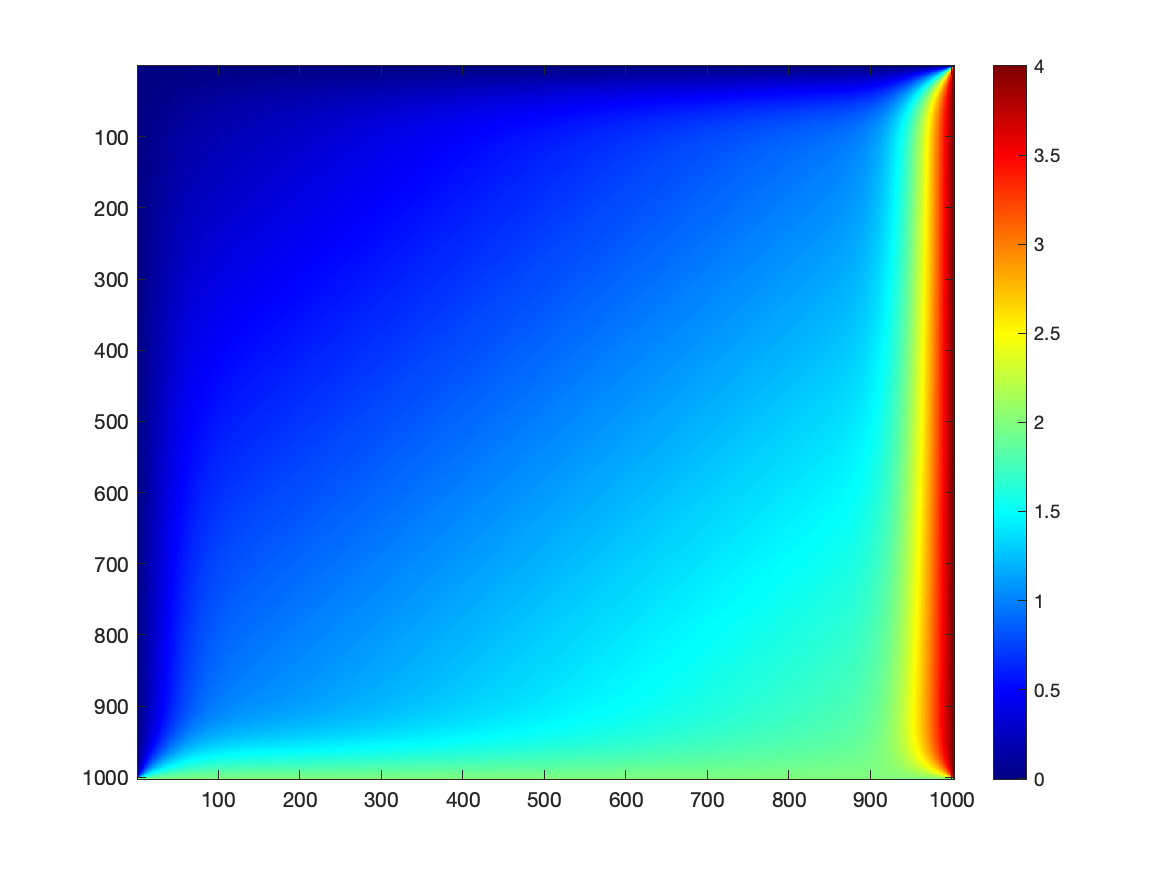
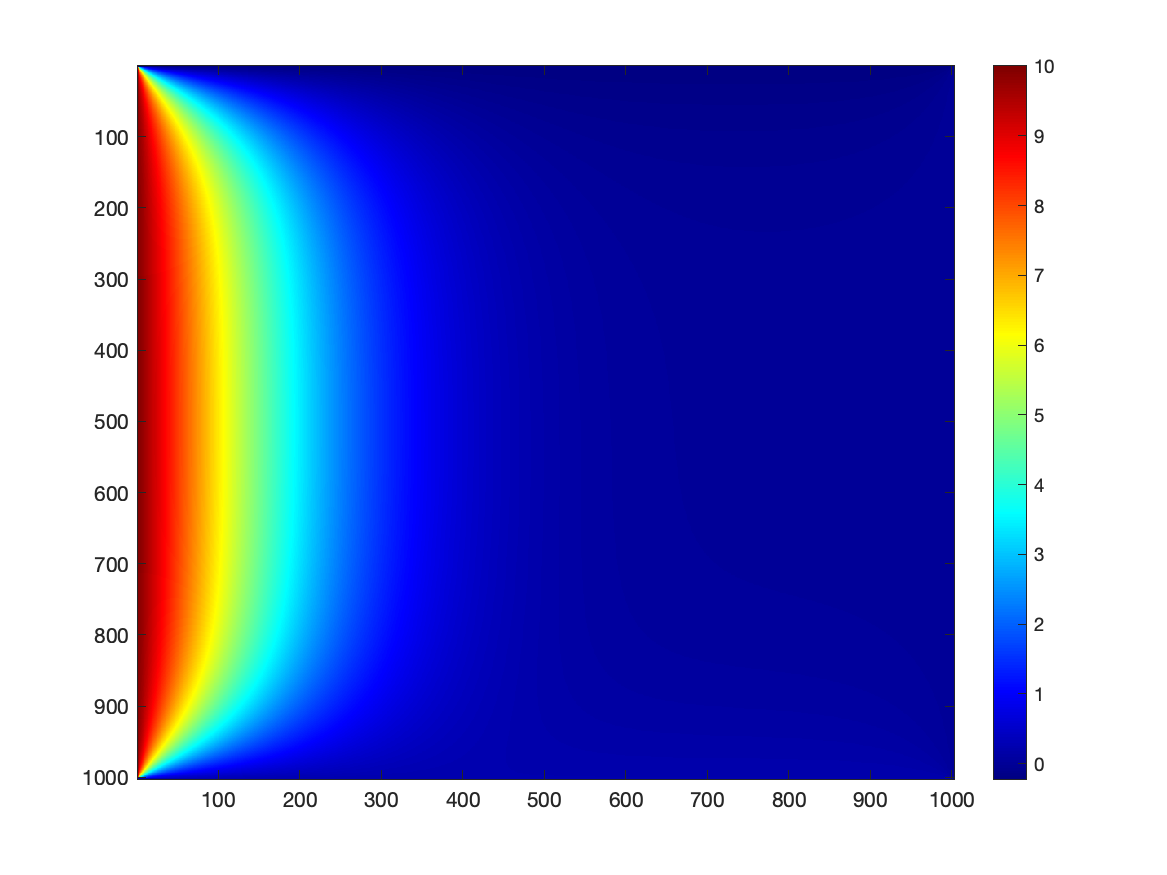
Update.Tests

diff --git a/Hybrid.Heat/ver1.0/include/pde/detials/BoundaryConditions/BoundaryConditions.hpp b/Hybrid.Heat/ver1.0/include/pde/detials/BoundaryConditions/BoundaryConditions.hpp
@@ -13,24 +13,33 @@ namespace final_project { namespace pde {
 template <typename T>
   class BoundaryConditions_2D
   {
+    using BCFunction = std::function<T(T, T, T)>;
+
     public:
     BoundaryConditions_2D();
     BoundaryConditions_2D(Bool, Bool, Bool, Bool);
 
     void SetBC(Heat_2D<T> &, T, T, T, T);
+    void SetBC(Heat_2D<T> &, BCFunction, BCFunction, BCFunction, BCFunction);
 
     private:
-    Integer h {1};
     Bool isSetUpBC;
     std::array<Bool, 4> isDirichletBC;
     std::array<Bool, 4> isNeumann;
     std::array<T, 4>    BCValue;
+    std::array<BCFunction, 4> BCFunc; 
 
     void SetBCinDim00(Heat_2D<T> &, T &);
     void SetBCinDim01(Heat_2D<T> &, T &);
     void SetBCinDim10(Heat_2D<T> &, T &);
     void SetBCinDim11(Heat_2D<T> &, T &);
 
+    void SetBCinDim00(Heat_2D<T> &, BCFunction &);
+    void SetBCinDim01(Heat_2D<T> &, BCFunction &);
+    void SetBCinDim10(Heat_2D<T> &, BCFunction &);
+    void SetBCinDim11(Heat_2D<T> &, BCFunction &);
+
+    
     void UpdateBC(Heat_2D<T> &);
 
     friend Heat_2D<T>;
@@ -61,8 +70,8 @@ template <typename T>
 template <typename T>
   inline
   BoundaryConditions_2D<T>::BoundaryConditions_2D(
-    Bool isDirichDim00, Bool isDirichDim01,   // is Dirichlet in Dimension 0
-    Bool isDirichDim10, Bool isDirichDim11)   // is Dirichlet in Dimension 1
+    Bool isDirichDim00, Bool isDirichDim01,   // is Dirichlet in Dimension 0, as Constant Value 
+    Bool isDirichDim10, Bool isDirichDim11)   // is Dirichlet in Dimension 1, as Constant Value 
   {
     isDirichletBC = {isDirichDim00, isDirichDim01, isDirichDim10, isDirichDim11};
     for (Integer i = 0; i < 4; ++i)
@@ -73,11 +82,34 @@ template <typename T>
 
 
 template <typename T>
-  inline 
-  void 
+  inline void 
+  BoundaryConditions_2D<T>::SetBC(Heat_2D<T> & obj, 
+    BCFunction Funcdim00, BCFunction Funcdim01,   // is Neumann in Dimension 0, as Function g(x,y,t)
+    BCFunction Funcdim10, BCFunction Funcdim11)   // is Neumann in Dimension 1, as Function g(x,y,t)
+  {
+
+    BCFunc = {Funcdim00, Funcdim01, Funcdim10, Funcdim11};
+
+    SetBCinDim00(obj, BCFunc[0]);
+    // SetBCinDim01(obj, BCFunc[1]);
+    // SetBCinDim10(obj, BCFunc[2]);
+    // SetBCinDim11(obj, BCFunc[3]);
+
+    isSetUpBC = true;
+
+    #ifndef NDEBUG
+    std::cout << "Boundary Conditions are setup (rank " << obj.in.topology().rank << "): " 
+              << " as function."
+              << std::endl;
+    #endif
+  } 
+
+
+template <typename T>
+  inline void 
   BoundaryConditions_2D<T>::SetBC(Heat_2D<T> &obj, 
-    T Vdim00, T Vdim01, 
-    T Vdim10, T Vdim11)
+    T Vdim00, T Vdim01,   // in Dimension 0, as Constant, value or derivative
+    T Vdim10, T Vdim11)   // in Dimension 1, as Constant, value or derivative
   {
     BCValue = {Vdim00, Vdim01, Vdim10, Vdim11};
 
@@ -88,10 +120,12 @@ template <typename T>
 
     isSetUpBC = true;
 
-    #ifndef NDEBUG
-    std::cout << "Boundary Conditions are setup (rank " << obj.in.topology().rank << "): " 
-              << std::endl;
-    #endif
+  #ifndef NDEBUG
+  std::cout << "Boundary Conditions are setup" 
+            << " (rank " << obj.in.topology().rank << "): " 
+            << " as constant value."
+            << std::endl;
+  #endif
   }
 
 template <typename T>
@@ -107,8 +141,7 @@ template <typename T>
   }
 
 template <typename T>
-  inline
-  void
+  inline void
   BoundaryConditions_2D<T>::SetBCinDim00(Heat_2D<T> & obj, T & Value)
   {
     auto shape_cpy  { obj.in.topology().__local_shape};
@@ -132,13 +165,10 @@ template <typename T>
         }
       }
     }
-
-
   }
 
 template <typename T>
-  inline 
-  void 
+  inline void 
   BoundaryConditions_2D<T>::SetBCinDim01(Heat_2D<T> & obj, T & Value)
   {
     auto shape_cpy  { obj.in.topology().__local_shape};
@@ -221,6 +251,53 @@ template <typename T>
       }
     }
   }
+  
+//////////////////////////////////////////////////////////////////////////////////////////
+// Requires Time (iteration).
+template <typename T>
+  inline void
+  BoundaryConditions_2D<T>::SetBCinDim00(Heat_2D<T> & obj, BCFunction & func)
+  {
+    auto shape_cpy  { obj.in.topology().__local_shape};
+    auto starts_cpy {obj.in.topology().starts};
+
+    // T value {isDirichletBC[0] ? BCValue[0] : 0};
+
+
+    // T x {0}, y {0};
+    // if (starts_cpy[0] == 1)
+    // {
+    //   size_type i = 0;
+    //   x = (i + obj.in.topology().starts[0] - 1) * obj.dxs[0];
+    //   for (size_type j = 1; j < shape_cpy[1] - 1; ++j)
+    //   {
+    //     y = (j + obj.in.topology().starts[1] - 1) * obj.dxs[1];
+
+    //     if (isDirichletBC[0] && !isSetUpBC)
+    //     {
+    //       obj.in(i,j) = func(x,y,0);
+    //       obj.out(i,j) = func(x,y,0);
+    //     } else if (isNeumann[0] && isSetUpBC)
+    //     {
+    //       obj.in(i,j) = func(x,y)
+    //     }
+
+    //   }
+    //   for (size_type y = 1; y < shape_cpy[1] - 1; ++y)
+    //   {
+    //     if (isDirichletBC[0] && !isSetUpBC)
+    //     {
+    //       obj.in(x,y)  = value;
+    //       obj.out(x,y) = value;
+    //     } else if (isNeumann[0] && isSetUpBC)
+    //     {
+    //       obj.in(x,y)  += BCValue[0]*obj.dt;
+    //       obj.out(x,y) += BCValue[0]*obj.dt;
+    //     }
+    //   }
+    // }
+  }
+
   
 
 

diff --git a/Hybrid.Heat/ver1.0/main1/main1.cpp b/Hybrid.Heat/ver1.0/main1/main1.cpp
@@ -1,6 +1,7 @@
 
 
 #include <mpi.h>
+#include <cmath>
 #include <iostream>
 
 #include <types.hpp>
@@ -21,25 +22,29 @@ using Char    = final_project::Char;
 using Double  = final_project::Double;
 using size_type = final_project::Dworld;
 
+using BCFunction = std::function<Double(Double, Double, Double)>;
+using ICFunction = std::function<Double(Double, Double)>;
+
 Integer 
   main( Integer argc, Char ** argv)
 {
 
   constexpr Integer root_proc {0};
-  constexpr Double tol {1E-3};
-  constexpr size_type nsteps {100'000};
+  constexpr Double tol {1E-4};
+  constexpr size_type nsteps {100'000'000};
   constexpr size_type numDim {2}, nx {NX}, ny {NY};
 
   auto mpi_world {final_project::mpi::environment(argc, argv)};
 
   final_project::pde::Heat_2D<Double> obj (mpi_world, nx, ny);
 
-  auto InitCond = [](Double x, Double y) { return x + y; };
+  ICFunction InitCond {[](Double x, Double y) { return 0; }};
   final_project::pde::InitialConditions::Init_2D<Double> IC (InitCond);
   
-  final_project::pde::BoundaryConditions_2D<Double> BC (false, true, false, true);
+  final_project::pde::BoundaryConditions_2D<Double> BC (false, false, true, true);
 
-  obj.SetHeatBC(BC, -1, 2, 1, 4);
+
+  obj.SetHeatBC(BC, -10, 10, 10, 0);
   obj.SetHeatInitC(IC);
 
   auto iter = obj.solve_pure_mpi(tol, nsteps, root_proc);

diff --git a/Hybrid.Heat/ver1.0/include/pde/detials/Heat_2D.hpp b/Hybrid.Heat/ver1.0/include/pde/detials/Heat_2D.hpp
@@ -275,8 +275,13 @@ FINAL_PROJECT_ASSERT(BC_2D->isSetUpBC == true && IC_2D->isSetUpInit == true);
         MPI_Allreduce(&ldiff, &gdiff, 1, DiffType, MPI_SUM, in.topology().comm_cart);
 
         #ifndef NDEBUG
-        if (in.topology().rank == root) 
-          std::cout << std::fixed << std::setprecision(13) << std::setw(15) << gdiff << std::endl;
+        mpi::Gather(gather, in, root);
+        if (in.topology().rank == root) {
+          std::cout << std::fixed << std::setprecision(13) << std::setw(15) << gdiff 
+                    << std::endl;
+
+          // gather.saveToBinary("");
+        }
         #endif 
 
         if (gdiff  <= tol) {
@@ -287,10 +292,11 @@ FINAL_PROJECT_ASSERT(BC_2D->isSetUpBC == true && IC_2D->isSetUpInit == true);
       }
       Double t1 {MPI_Wtime() - t0};
 
+      mpi::Gather(gather, in, root);
       if (converge)
       {
         Double total {0};
-        mpi::Gather(gather, in, root);
+        // mpi::Gather(gather, in, root);
         MPI_Reduce(&t1, &total, 1, MPI_DOUBLE, MPI_MAX, root, in.topology().comm_cart);
         if (in.topology().rank == root)
           std::cout << "Total Converge time: " << total << "\n" 

diff --git a/Hybrid.Heat/ver1.0/test/test.cc b/Hybrid.Heat/ver1.0/test/test.cc
@@ -16,8 +16,8 @@
 
 
 #if !defined(NX) || !defined(NY)
-#define NX 100+2
-#define NY 100+2
+#define NX 1000+2
+#define NY 1000+2
 #define NZ 15+2
 #endif
 
@@ -35,10 +35,8 @@ main ( int argc, char ** argv )
 
   final_project::pde::Heat_2D<double> obj(mpi_world, nx, ny);
 
-  final_project::pde::InitialConditions::Init_2D<double> IC
-  ( 
-    [](double x, double y) { return x; }
-  );
+  std::function<double(double, double)> InitCond {[](double x, double y) { return x; }};
+  final_project::pde::InitialConditions::Init_2D<double> IC ( InitCond );
 
   obj.SetHeatInitC(IC);
   final_project::pde::BoundaryConditions_2D<double> BC (false, true, true, false);

diff --git a/Hybrid.Heat/ver1.0/include/pde/detials/InitializationsC.hpp b/Hybrid.Heat/ver1.0/include/pde/detials/InitializationsC.hpp
@@ -19,7 +19,7 @@ template <typename T>
 
     public:
     Init_2D();
-    Init_2D(InitFunction );
+    Init_2D(InitFunction & );
 
     private:
     InitFunction initFunc;
@@ -45,7 +45,7 @@ template <typename T>
   {}
 
 template <typename T>
-  Init_2D<T>::Init_2D(InitFunction initFunc)
+  Init_2D<T>::Init_2D(InitFunction & initFunc)
   : initFunc {initFunc}, isSetUpInit {false}
   {}
 

diff --git a/README.md b/README.md
@@ -36,7 +36,8 @@ $$ -->
 
 ### Development Note
 
-<img src="Hybrid.Heat/ver1.0/main1.png" alt="Heat_2D" height="300">
+<img src="Hybrid.Heat/ver1.0/main1.png" alt="Heat_2D" height="400">
+<img src="Hybrid.Heat/ver1.0/Strong_main1.png" alt="Heat_2D" height="400">
 
 #### Jun, 18- Jul, 8 2024
 - Working Path : ```MPI.Heat/C++Heat/ver5.0``` and ```PINN/```
